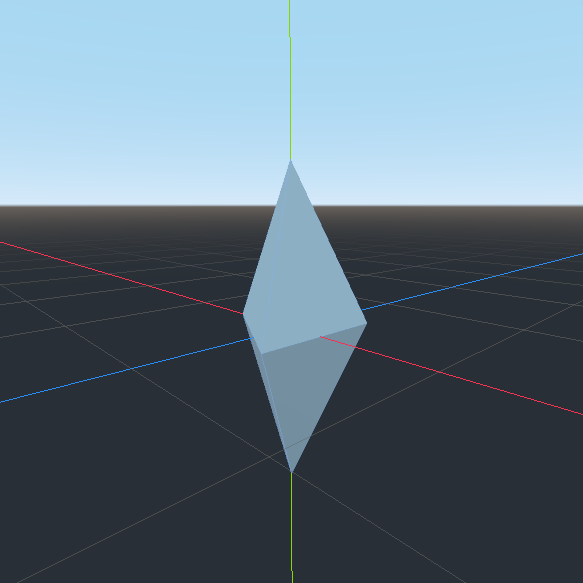
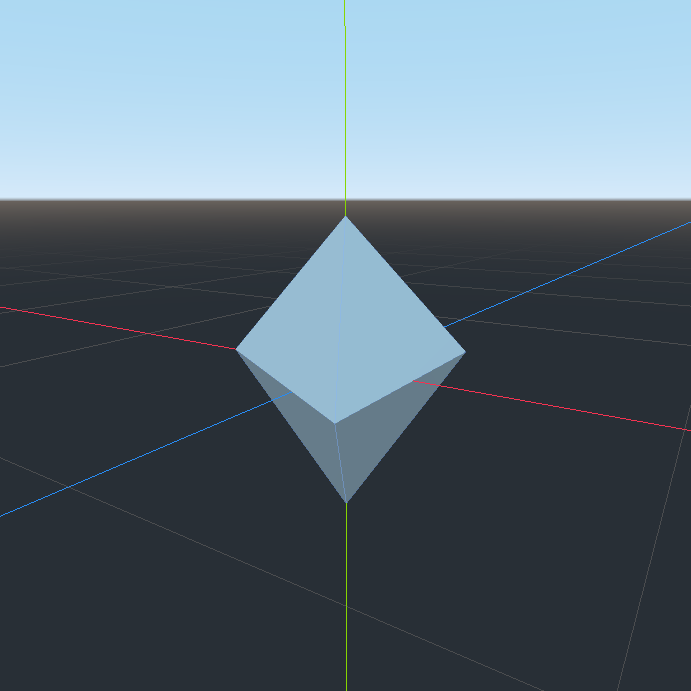
Renamed _prcedure_func to _radius_func; Fixed scale on y-axis

diff --git a/README.md b/README.md
@@ -11,7 +11,7 @@ The function that generates these nodes is a modified version of the example cod
 
 ## Installing
 
-I recommend downloading `make_procedural_body.gd` and directly adding it your project. The rest of this repository is dedicated to explaining how to use the function and how it works.
+I recommend directly downloading `make_procedural_body.gd` and adding it your project. The rest of this repository is dedicated to explaining how to use the function and how it works.
 
 ## Using
 
@@ -22,7 +22,7 @@ edit the parameters of the call to `get_new_body` in the `_run` function directl
 
 - `radius_function`:
 
-   The function that is rotated around the y-axis is called `_procedure_func`, and this is the value passed as `radius_function`. Evaluations of this function are translated into distances from the y-axis. There are important characteristics about this function:
+   The function that is rotated around the y-axis is called `_radius_func`, and this is the value passed as `radius_function`. Evaluations of this function are translated into distances from the y-axis. There are important characteristics of this function:
    
    1. It is evaluated *only* over [0, 1], i.e., between 0 and 1 inclusive
    2. Its range over [0, 1] should also be [0, 1]. It does not *have* to be, but it is recommended
@@ -80,7 +80,7 @@ else:
 ```
 return sin(0.7 * PI * x)
 ```
-**Scale:** `(1.0, 1.0, 1.0)`
+**Scale:** `(1.0, 2.0, 1.0)`
 
 **Rings:** `50`
 
@@ -96,7 +96,7 @@ return sin(0.7 * PI * x)
 ```
 return (0.5 + 0.25 * cos(2 * PI * x))
 ```
-**Scale:** `(0.8, 1.0, 0.8)`
+**Scale:** `(0.8, 2.0, 0.8)`
 
 **Rings**: `5`
 
